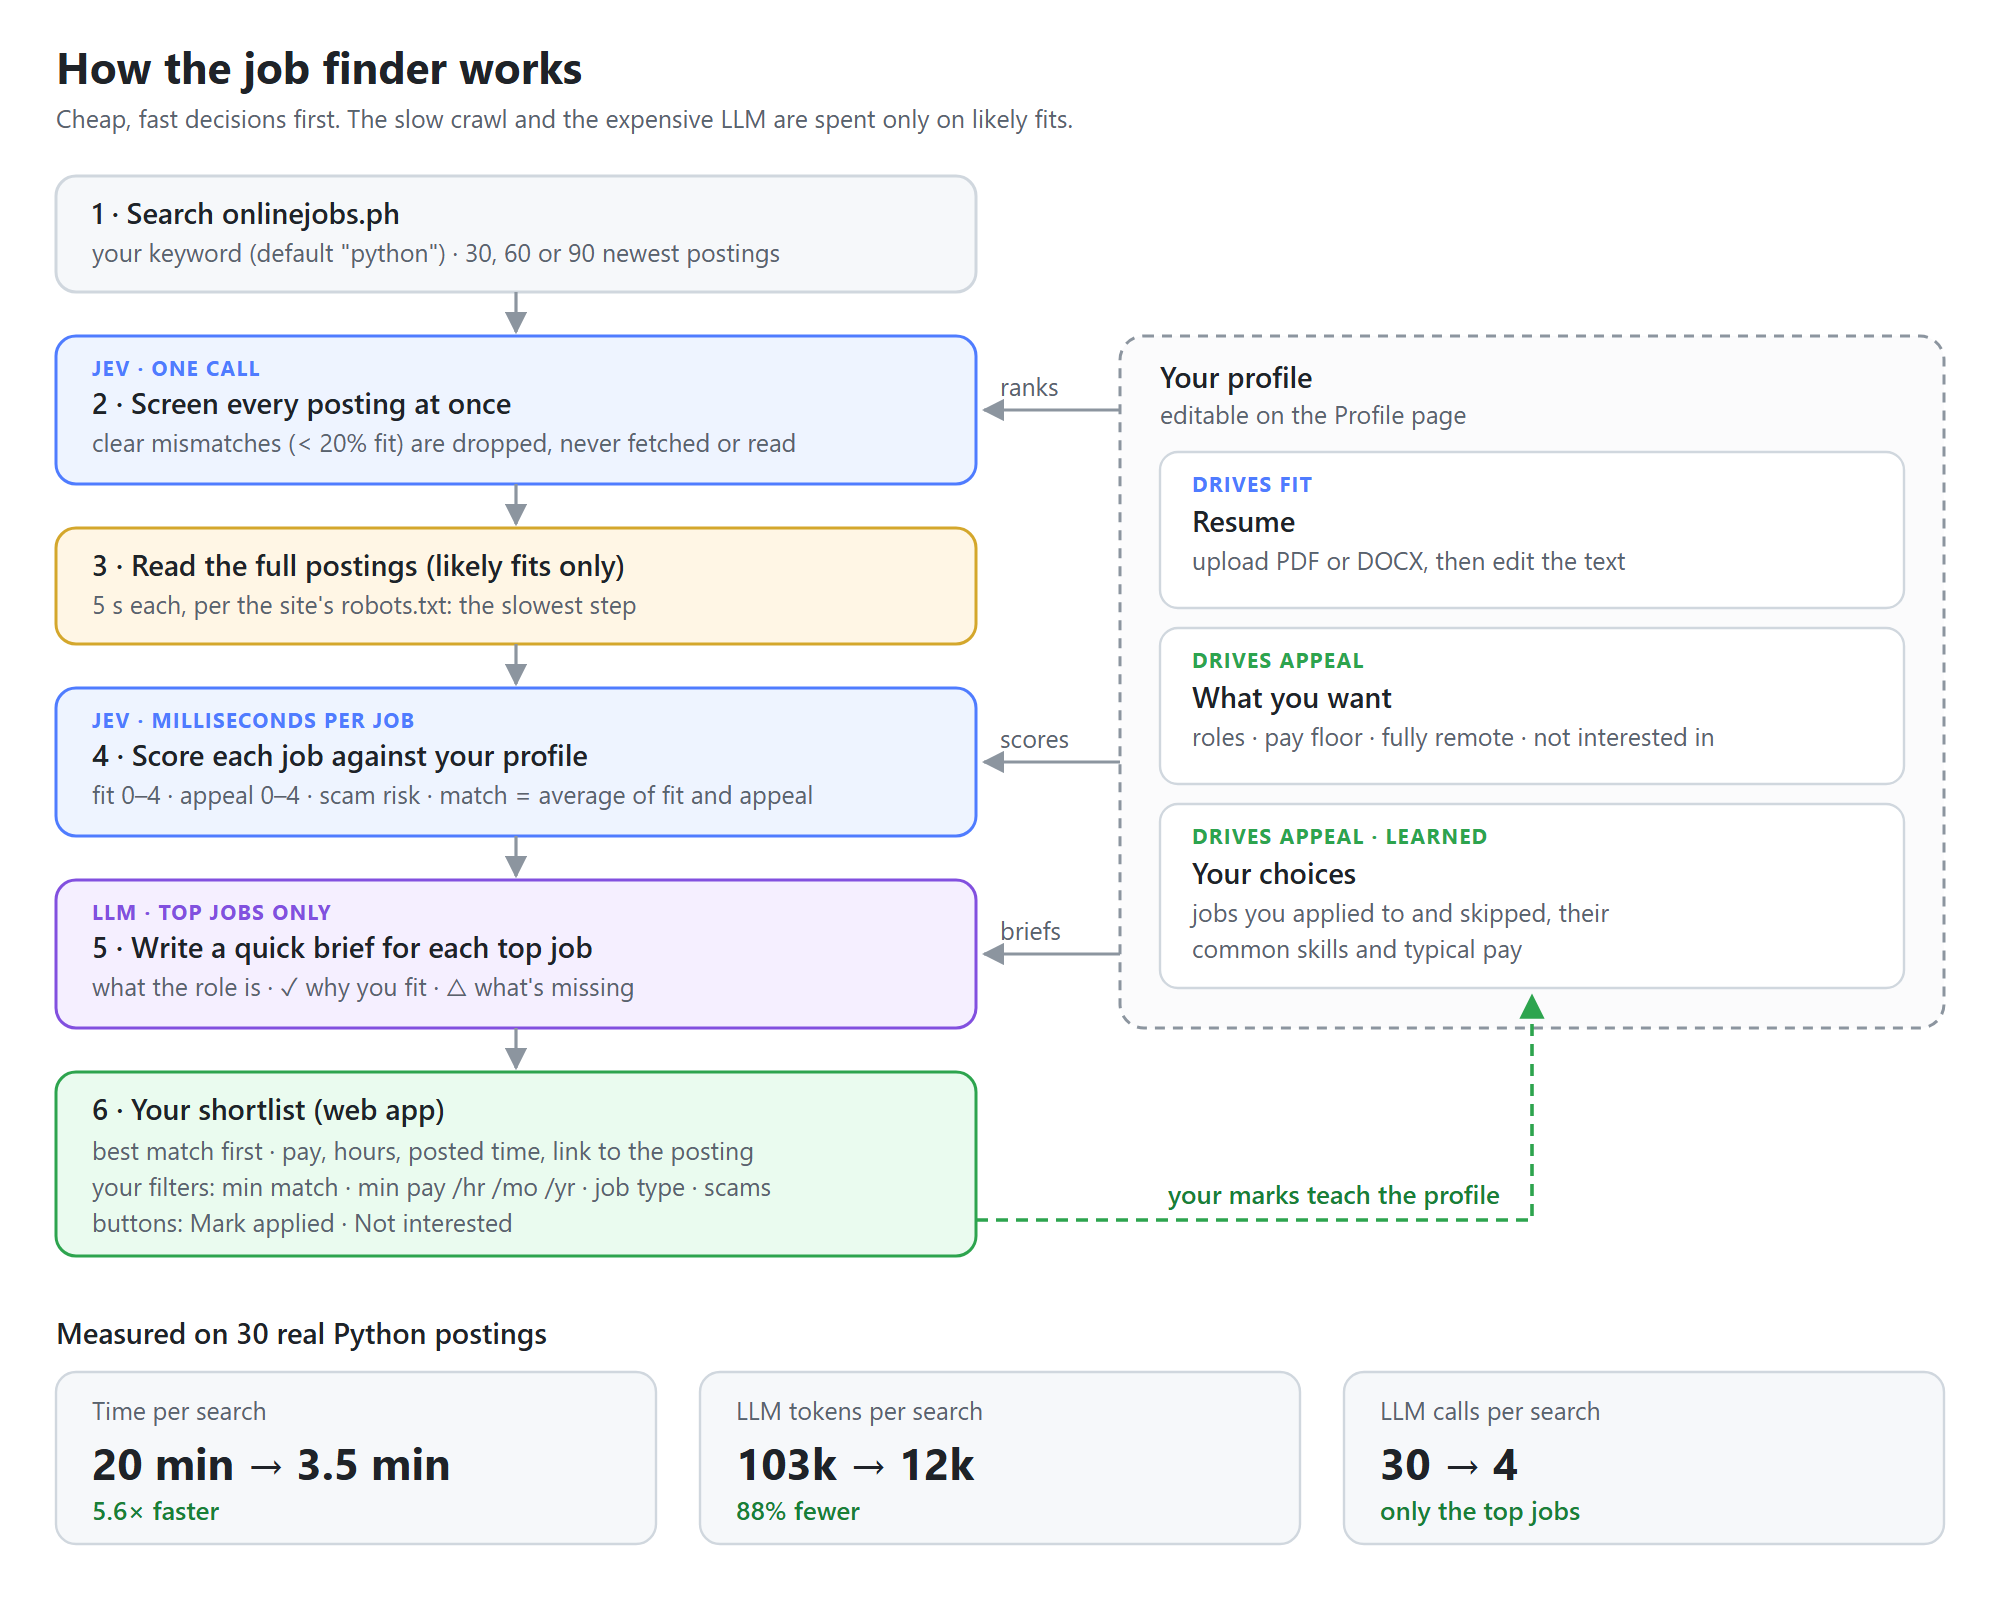
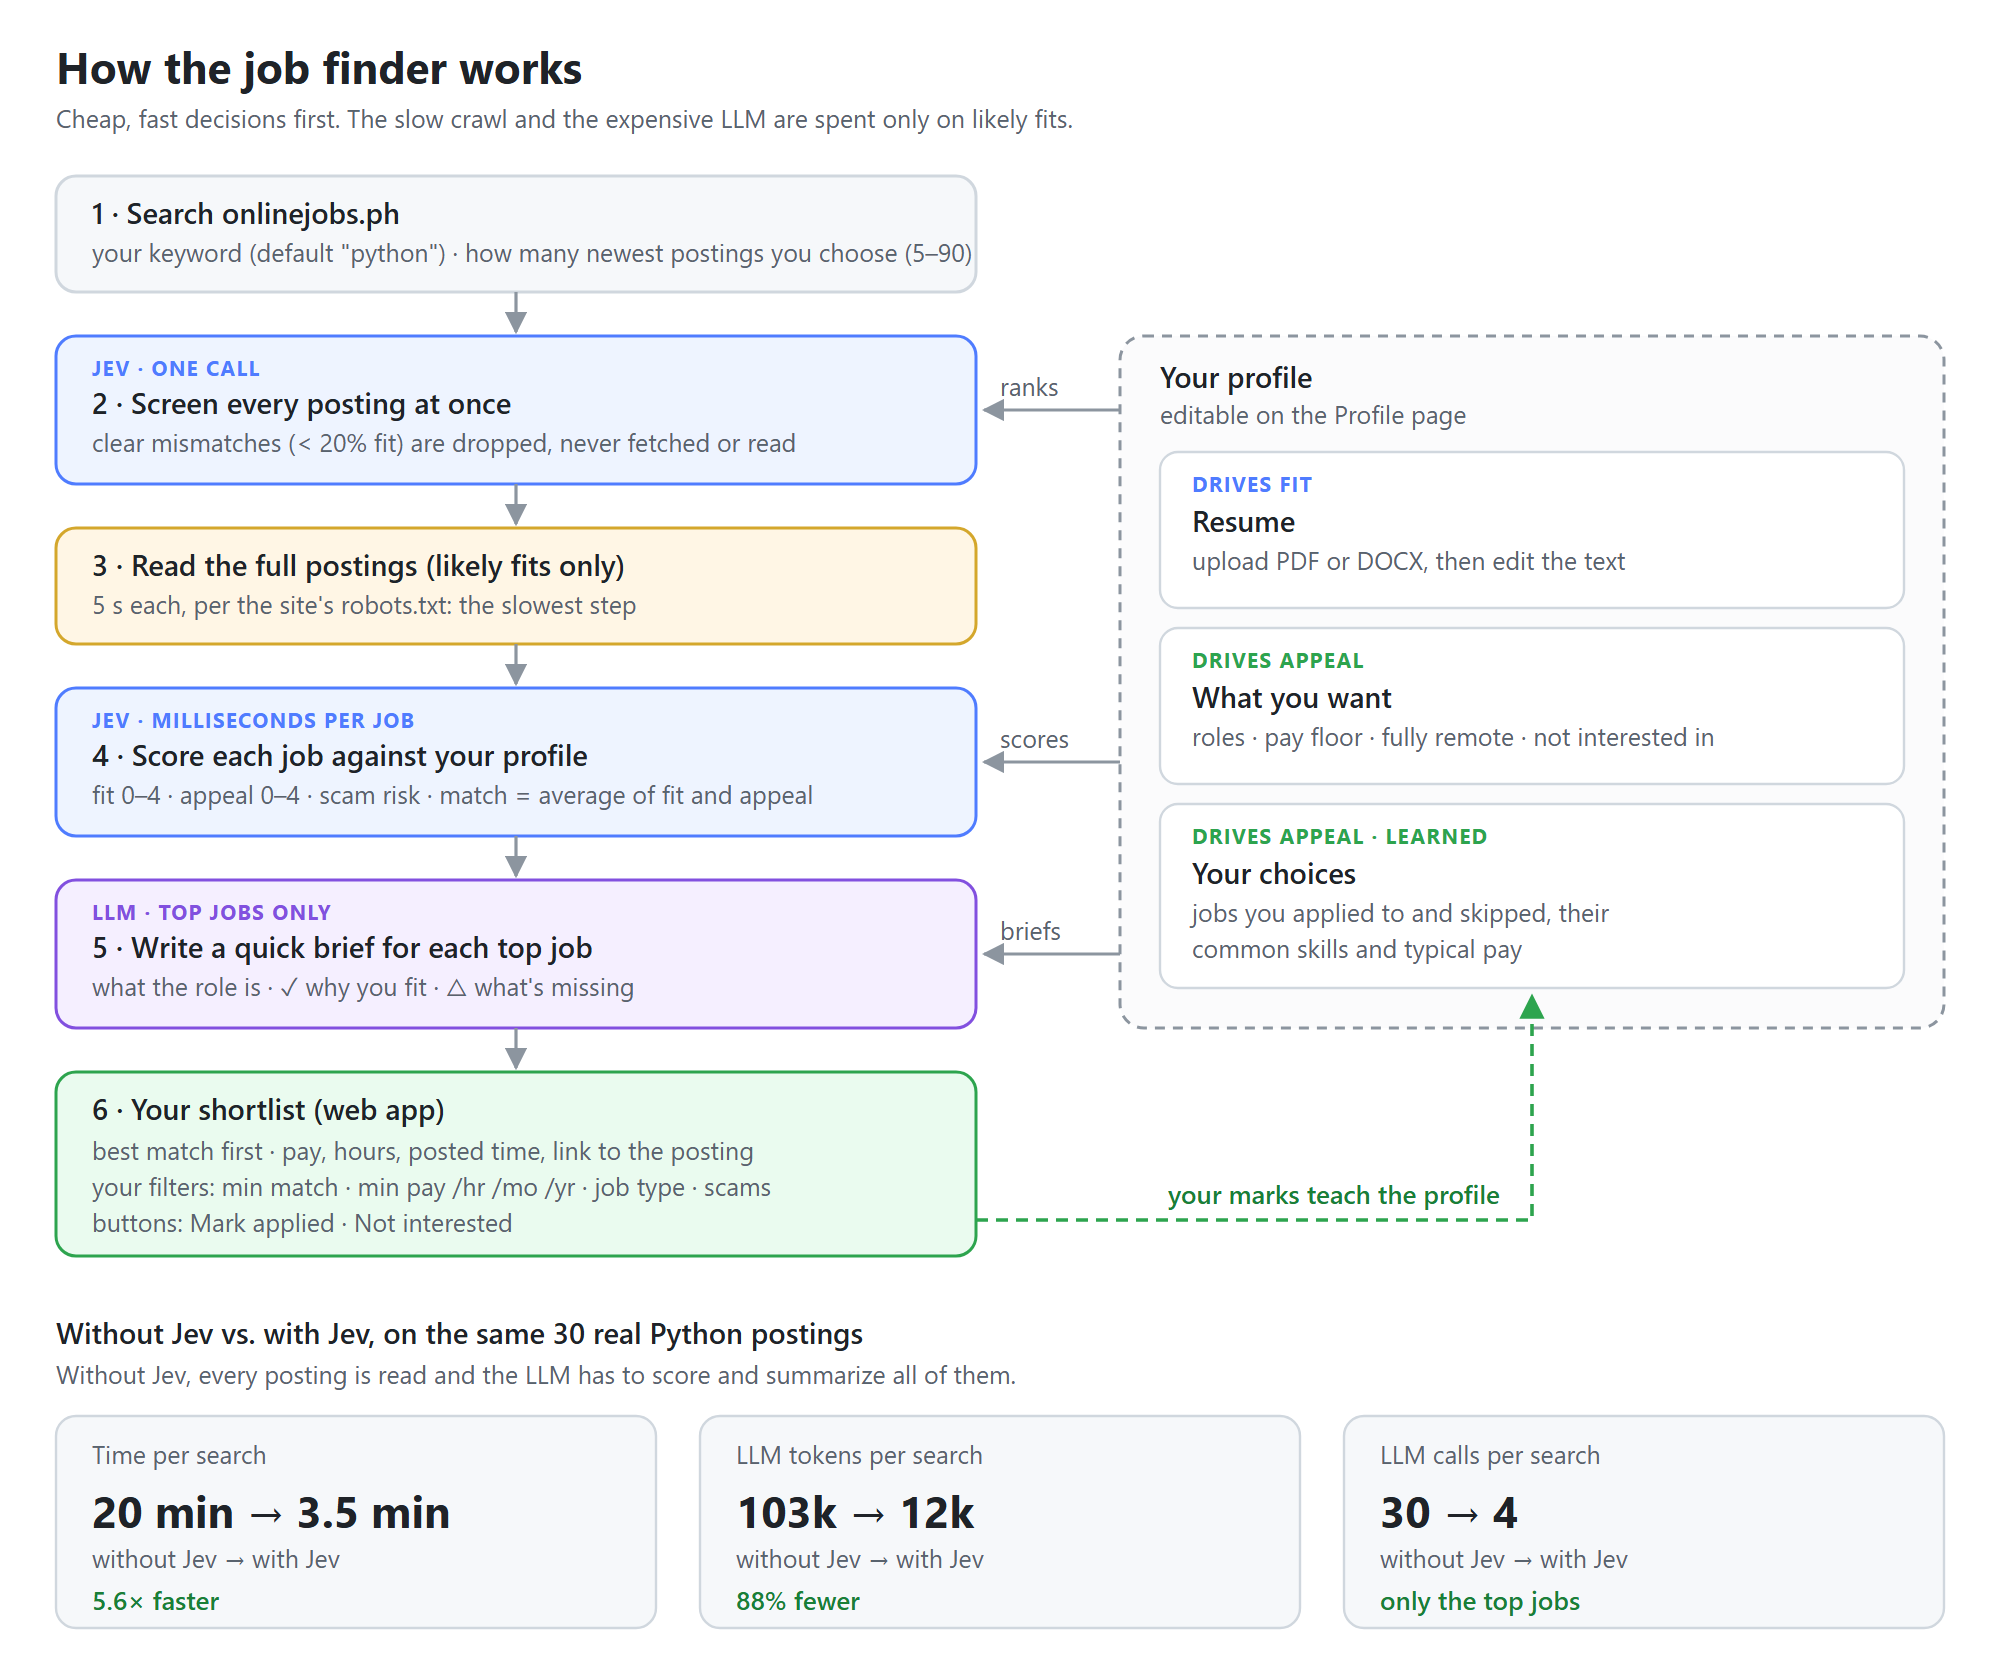
Label diagram results as without vs. with Jev; document postings

diff --git a/README.md b/README.md
@@ -49,7 +49,7 @@ A search takes a few minutes, because every posting that passes the Jev screen i
 
 | Endpoint | Purpose |
 |---|---|
-| `POST /api/runs` | Start a search: `{"keyword": "python", "pages": 1}` (1–3 pages of 30). Returns 409 if one is already running. |
+| `POST /api/runs` | Start a search: `{"keyword": "python", "postings": 30}` (the 5–90 newest postings). Returns 409 if one is already running. |
 | `GET /api/runs/{id}` · `GET /api/runs/active` | Progress (stage, done/total, elapsed), and the results when done. |
 | `GET /api/latest` | The most recent results (also saved as `out/latest.json`). |
 | `GET` · `PUT /api/profile` | The editable profile, what's been learned from your marks, and the composed text Jev ranks against. |
@@ -61,7 +61,7 @@ Without the UI, the same pipeline runs from the command line and writes a Markdo
 ```bash
 python -m ojagent.triage                     # Jev screens and ranks, the LLM summarizes the shortlist
 python -m ojagent.triage --no-jev            # baseline: the LLM scores and summarizes everything
-python -m ojagent.triage --keyword fastapi --pages 2
+python -m ojagent.triage --keyword fastapi --limit 45
 ```
 
 ## Architecture
